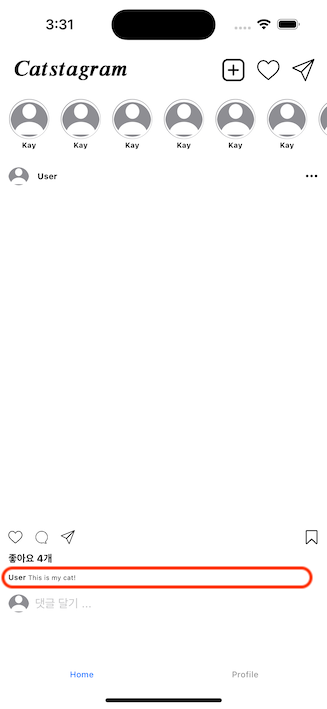
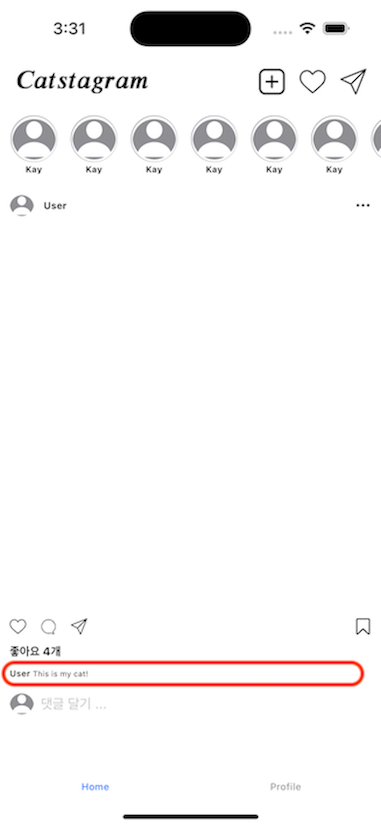
refactor: README.md에 사용된 사진 해상도 조절 및 README.md 업데이트

diff --git a/UI/UILabel/ApplyingAttributeToLabel/README.md b/UI/UILabel/ApplyingAttributeToLabel/README.md
@@ -1,13 +1,9 @@
 # Applying a new attribute to the label
 
 ## 🍎 새로운 속성 적용 전,후 비교 이미지
-
-### 📖 속성 적용 전
-![](https://i.imgur.com/JVpMdVp.png)
-
-### 📖 속성 적용 후
-![](https://i.imgur.com/C5VTqTb.png)
-
+| 속성 적용 전 | 속성 적용 후 |
+| :-: | :-: |
+| ![](https://i.imgur.com/crfU90Y.png) | ![](https://i.imgur.com/xSF8e2W.png) |
 - 자세히 보면 사용자(User)부분이 This is my cat! 보다 조금 더 두꺼운것을 볼수있다.
 
 ## 🍎 NSMutableAttributeString을 사용해 label의 구간에 따라 스타일 적용하기
